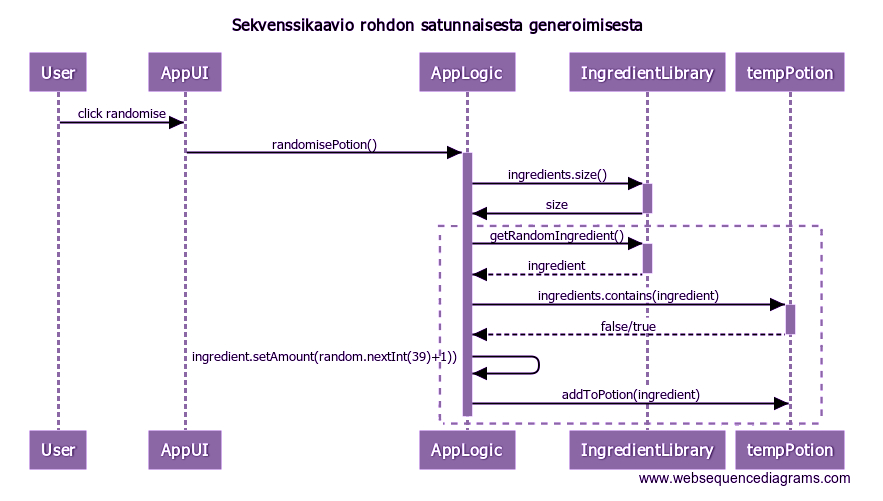
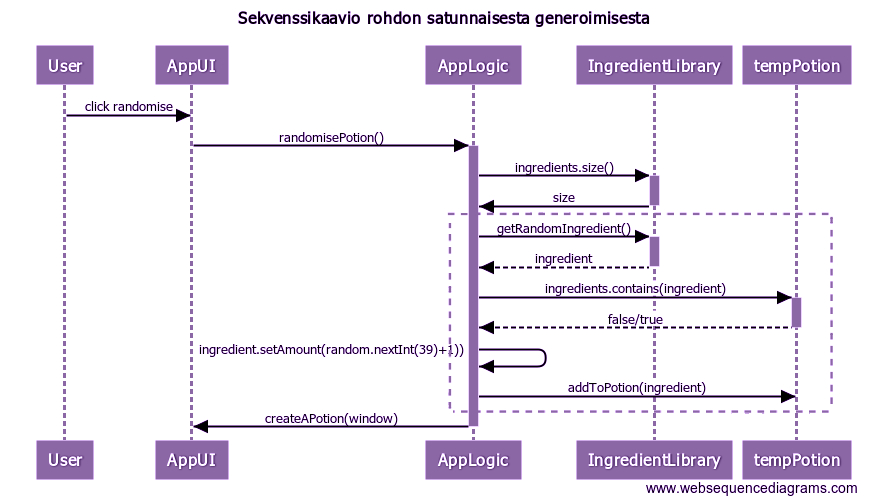
cleaning

Changed region(s): [[0.1529, 0.0898, 0.9785, 0.988], [0.0306, 0.0898, 0.2752, 0.9581], [0.2446, 0.0299, 0.7339, 0.0599]]

diff --git a/dokumentointi/arkkitehtuuri.md b/dokumentointi/arkkitehtuuri.md
@@ -107,6 +107,9 @@ AppLogic hakee Ingredient Librarylta tiedon kuinka monta ainesta kirjastossa on.
 Silmukassa AppLogic kutsuu Ingredient Libraryn getRandomIngredient()-metodia, joka palauttaa satunnaisesti aineksen AppLogicille. AppLogic tarkistaa tempPotionilta, onko arvottua ainesta rohdossa jo. Jos ei, ainekselle arvotaan ainekselle määrä välillä 1-40, aines lisätään rohtoon ja silmukan laskuri kasvaa yhdellä. Jos rohdossa on ainesta, ainesta ei lisätä ja laskuri ei kasva. Arvotaan seuraava aines Ingredient Librarysta.
 
 
+Lopuksi AppUI kutsuu createAPotion()-metodia, jossa näkymä luodaan uudestaan eli päivittyy. Käyttäjälle näkyy generoitu lista rohdon sisällöstä.
+
+
 Muiden toiminnallisuuksien toiminta noudattelee samaa periaatetta: sovelluslogiikka kutsuu ingredientLibrarya tai potionLibrarya tarvittavan toiminnallisuuden suorittamiseksi, ja käyttöliittymä välittää käyttäjälle tiedon operaation tuloksesta.
 
 ## Ohjelman rakenteeseen jääneet heikkoudet
